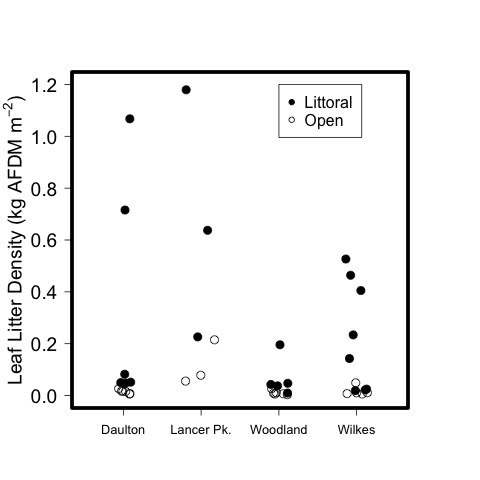
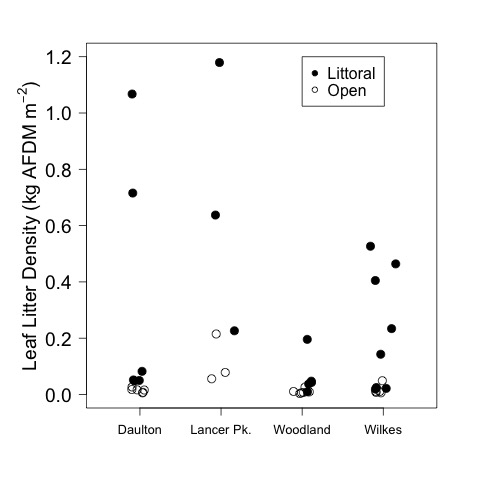
plots

diff --git a/lab_notebook/analysis/CPOM_survey_2013_analysis.md b/lab_notebook/analysis/CPOM_survey_2013_analysis.md
@@ -122,7 +122,7 @@ $WL
 
 ~~~~
 
-    par(las = 1, mar = c(5, 5, 5, 5))
+    par(las = 1, mar = c(5, 6, 3, 3))
     plot(jitter(rep(1, length(survey$CPOM.AFDM[survey$lake == "DP" & survey$location == "littoral"])), 5), survey$CPOM.AFDM[survey$lake == "DP" & survey$location == "littoral"]/1000, pch = 19, cex = 1.5, cex.lab = 1.2, xlim = c(0.5, 4.5), ylim = c(0, 1.2), axes = F, xlab = " ", ylab = expression(paste("Leaf Litter Density (kg AFDM m"^{-2}, ")")))
     points(jitter(rep(1, length(survey$CPOM.AFDM[survey$lake == "DP" & survey$location == "open"])), 5), survey$CPOM.AFDM[survey$lake == "DP" & survey$location == "open"]/1000, cex = 1.5)
     points(jitter(rep(2, length(survey$CPOM.AFDM[survey$lake == "LPP" & survey$location == "littoral"])), 5), survey$CPOM.AFDM[survey$lake == "LPP" & survey$location == "littoral"]/1000, pch = 19, cex = 1.5)
@@ -133,7 +133,7 @@ $WL
     points(jitter(rep(4, length(survey$CPOM.AFDM[survey$lake == "WL" & survey$location == "open"])), 2), survey$CPOM.AFDM[survey$lake == "WL" & survey$location == "open"]/1000, cex = 1.5)
     axis(1, at = c(1, 2, 3, 4), labels = c("Daulton", "Lancer Pk.", "Woodland", "Wilkes"), tick = T, cex.axis = 0.8)
     axis(2, cex.axis = 1.2)
-    box(lwd = 5)
+    box(lwd = 1)
     legend(3, 1.2, c("Littoral  ", "Open  "), pch = c(19, 1))
     dev.copy(jpeg, "./output/plots/CPOM_Dens_by_lake_scatter.jpg")
     dev.off()
@@ -410,14 +410,14 @@ Overall there is not a big difference between the littoral and open locations th
 
 _Percent sediement organic matter (LOI 550) plotted against CPOM (g AFDM/m^2) in open and littoral regions in 2013 survey_
 
-    par(las = 1)
-    plot((sed.propOM * 100) ~ log(CPOM.AFDM), data = survey, subset = location == "littoral", xlim = c(0, 7),   ylim = c(0, 25), pch = 16, ylab = "Percent Sediment Organic Matter (LOI 550)", xlab = "ln CPOM Density (g AFDM/m^2)")
-    points((sed.propOM * 100) ~ log(CPOM.AFDM), data = survey, subset = location == "open")
-    legend(-3, 25, c("littoral", "open"), pch = c(16, 1))
-    dev.copy(png, "./output/plots/percOM_by_lnCPOM.png")
+    par(las = 1, mar = c(5, 6, 3, 3))
+    plot((sed.propOM * 100) ~ log(CPOM.AFDM), data = survey, subset = location == "littoral", xlim = c(0, 7),   ylim = c(0, 25), pch = 19, ylab = "Percent Sediment Organic Matter (LOI 550)", xlab = expression(paste("ln Leaf Litter Density (g AFDM m"^{-2}, ")")), cex = 1.5, cex.axis = 1.2, cex.lab = 1.2)
+    points((sed.propOM * 100) ~ log(CPOM.AFDM), data = survey, subset = location == "open", cex = 1.5)
+    legend(5, 25, c("littoral", "open"), pch = c(19, 1))
+    dev.copy(jpeg, "./output/plots/percOM_by_lnCPOM.jpg")
     dev.off()
 
-![Percent sediement organic matter (LOI 550) plotted against CPOM (g AFDM/m^2) in open and littoral regions in 2013 survey](../output/plots/percOM_by_lnCPOM.png)
+![Percent sediement organic matter (LOI 550) plotted against CPOM (g AFDM/m^2) in open and littoral regions in 2013 survey](../output/plots/percOM_by_lnCPOM.jpg)
 
 _Percent sediement organic matter (LOI 550) plotted against ln transformed CPOM (ln g AFDM/m^2) in open and littoral regions in 2013 survey_
 
